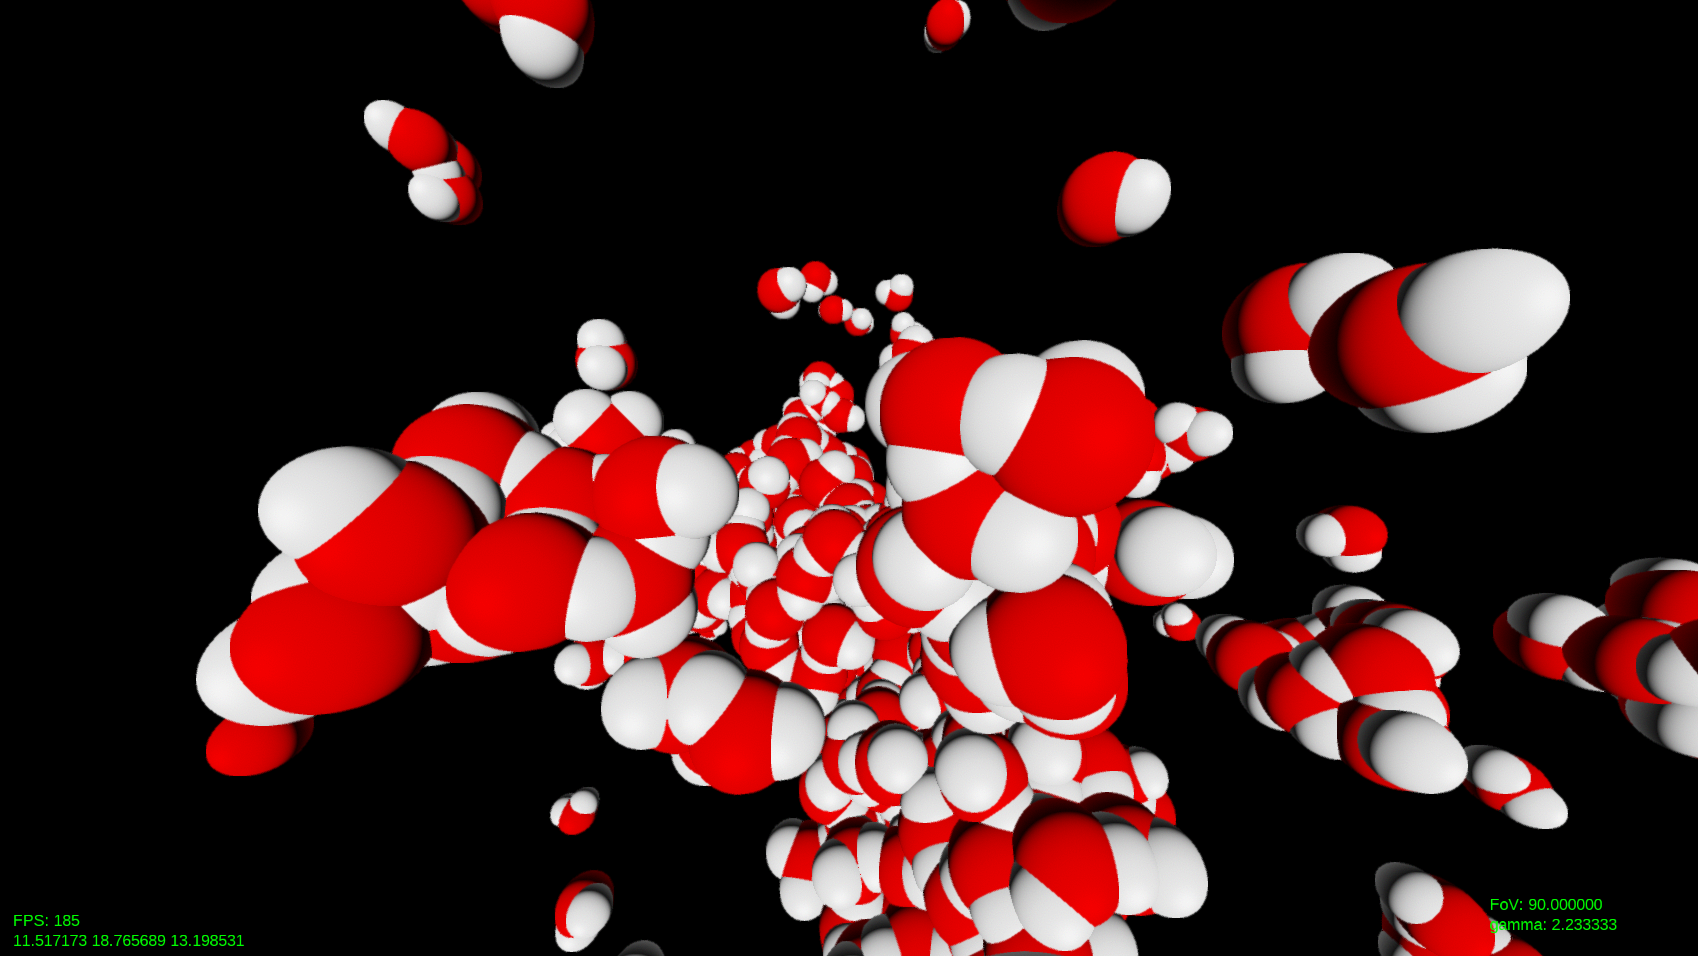
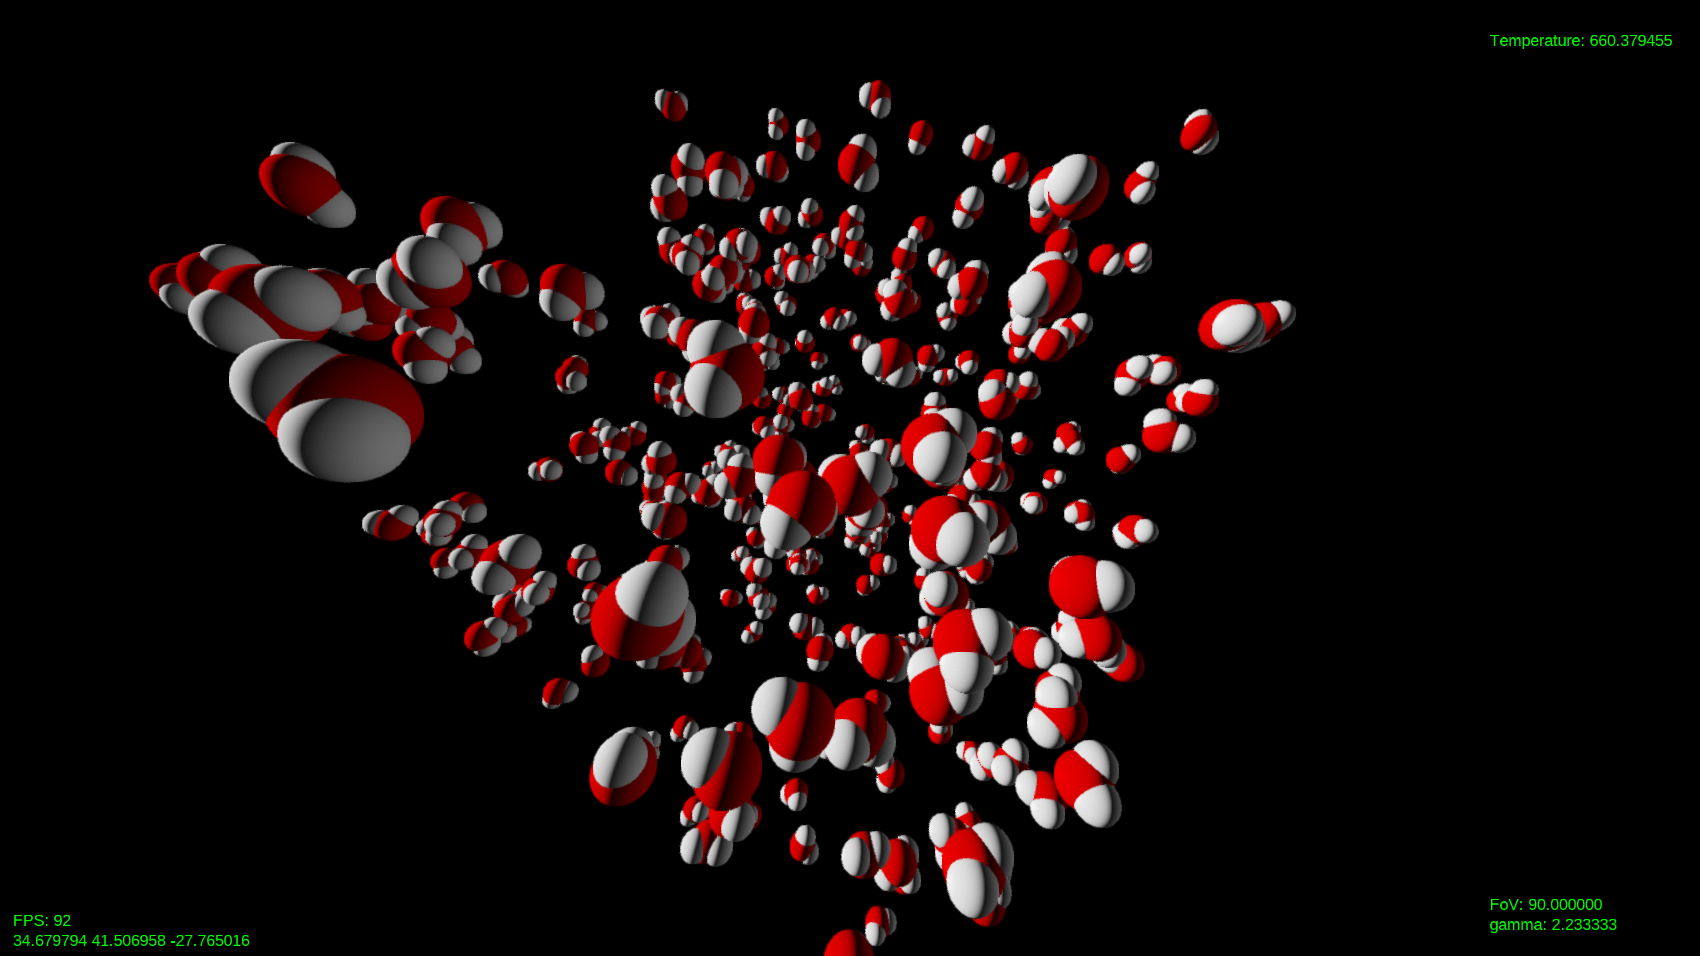
Changed screenshot and animation

diff --git a/main.cpp b/main.cpp
@@ -35,10 +35,11 @@ int main(const int, const char**)
 	int side = 6, hside = side/2;
 	//double volume = (side*side*side*18)/0.55; // 0.55 = density of ice in AKMA units
 	//double dist = std::cbrt(volume)/side;
-	double dist = 3.2, temperature = 220;
+	double dist = 12;
+	double init_temp = 1000, end_temp = 220;
 	std::cout << "dist = " << dist << std::endl;
 
-	physics::molecular_system<double, physics::leapfrog> molsys(dist*side, temperature, physics::DW5<>);
+	physics::molecular_system<double, physics::leapfrog> molsys(dist*side, init_temp, physics::DW5<>);
 
 	/*physics::molecule pert_water = physics::water_tip3p_lr<>;
 	for (unsigned int i = 0; i < pert_water.n; ++i)
@@ -54,12 +55,13 @@ int main(const int, const char**)
 		for (int j = 0; j <= side; ++j)
 			molsys.add_molecule(physics::water_tip3p_lr<>, {(i-hside)*dist, (j-hside)*dist, 0});*/
 
-	//for (int i = 0; i < 100; ++i)
-	//	molsys.step(1e-3, true);
+	for (int i = 0; i < 100; ++i)
+		molsys.step(1e-3);
 
 	while (!window.should_close())
 	{
-		for (int i = 0; i < 1; ++i)
+		molsys.temperature = end_temp + (molsys.temperature - end_temp) * 0.9998;
+		for (int i = 0; i < 2; ++i)
 			molsys.step(2e-3, true);
 
 		window.draw(molsys);

diff --git a/graphics.hpp b/graphics.hpp
@@ -290,6 +290,10 @@ class graphics
 				std::string("FoV: ") + std::to_string(controls::FoV) + "\ngamma: " + std::to_string(controls::gamma),
 				w-160*xscale, 36*yscale, 0.5f*xscale
 			);
+			font -> Draw(
+				std::string("Temperature: ") + std::to_string(molsys.temperature),
+				w-160*xscale, h-36*yscale, 0.5f*xscale
+			);
 			font -> End();
 			
 			glfwSwapBuffers(window);
